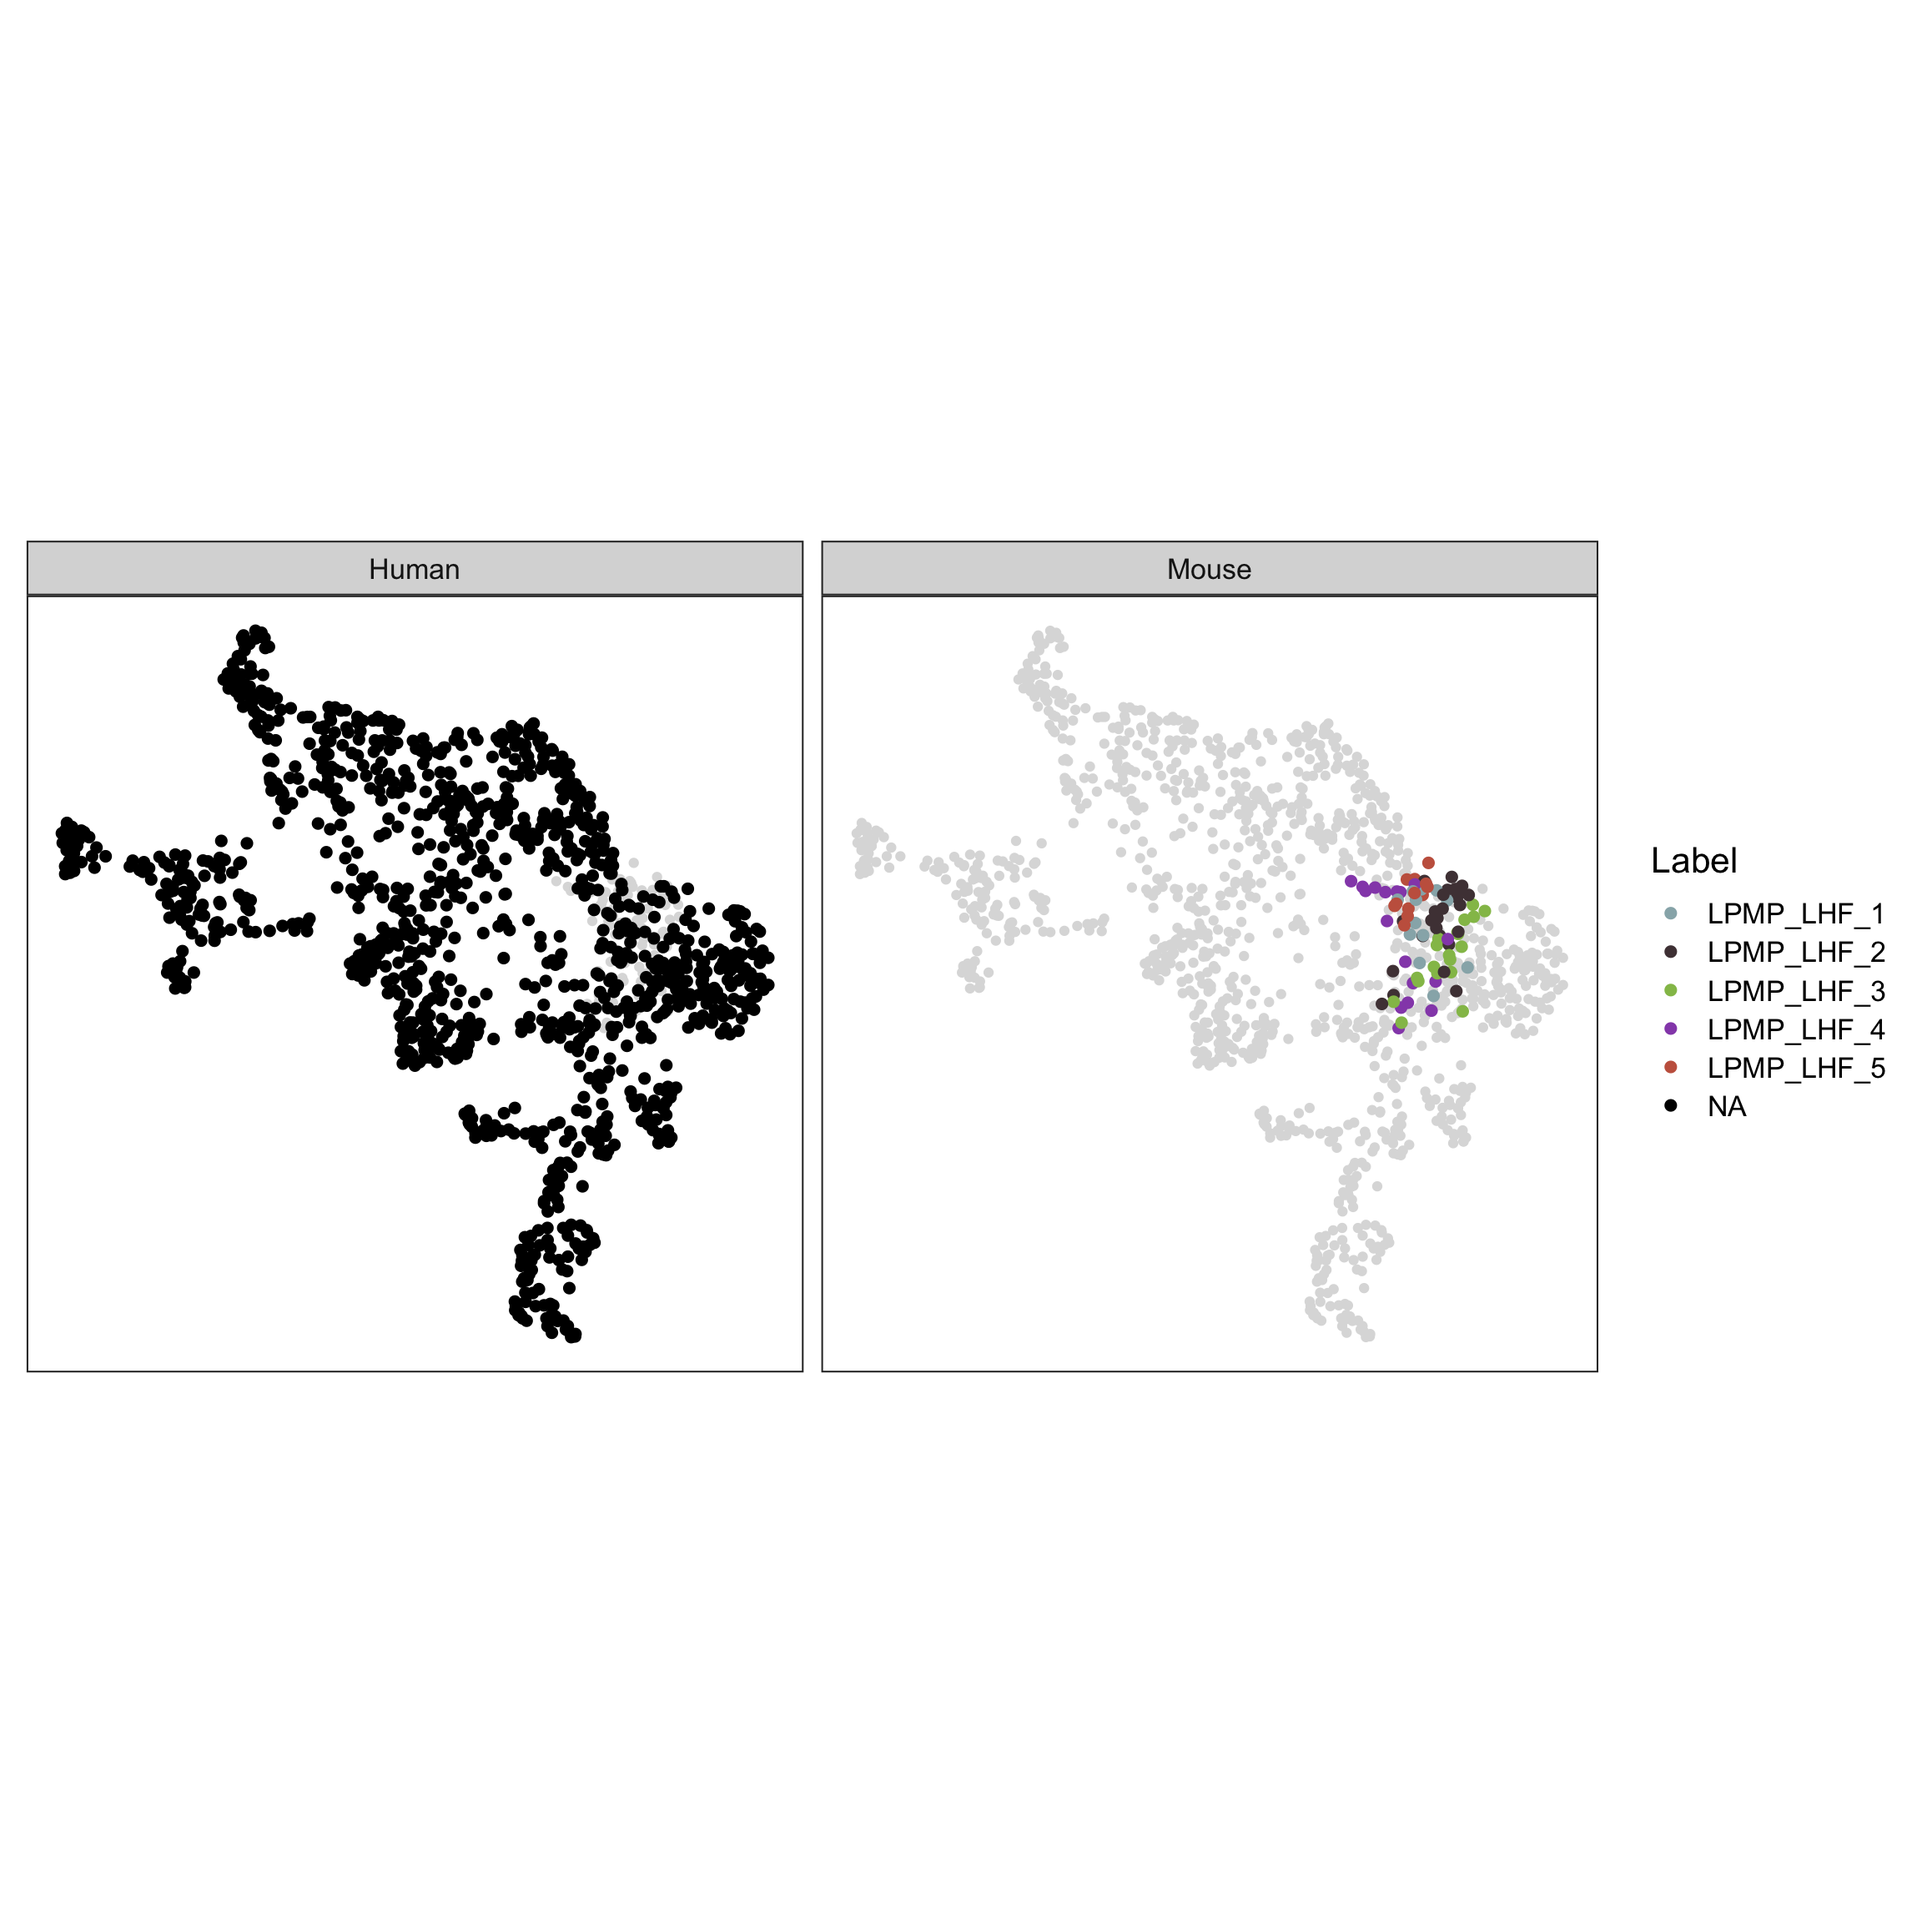
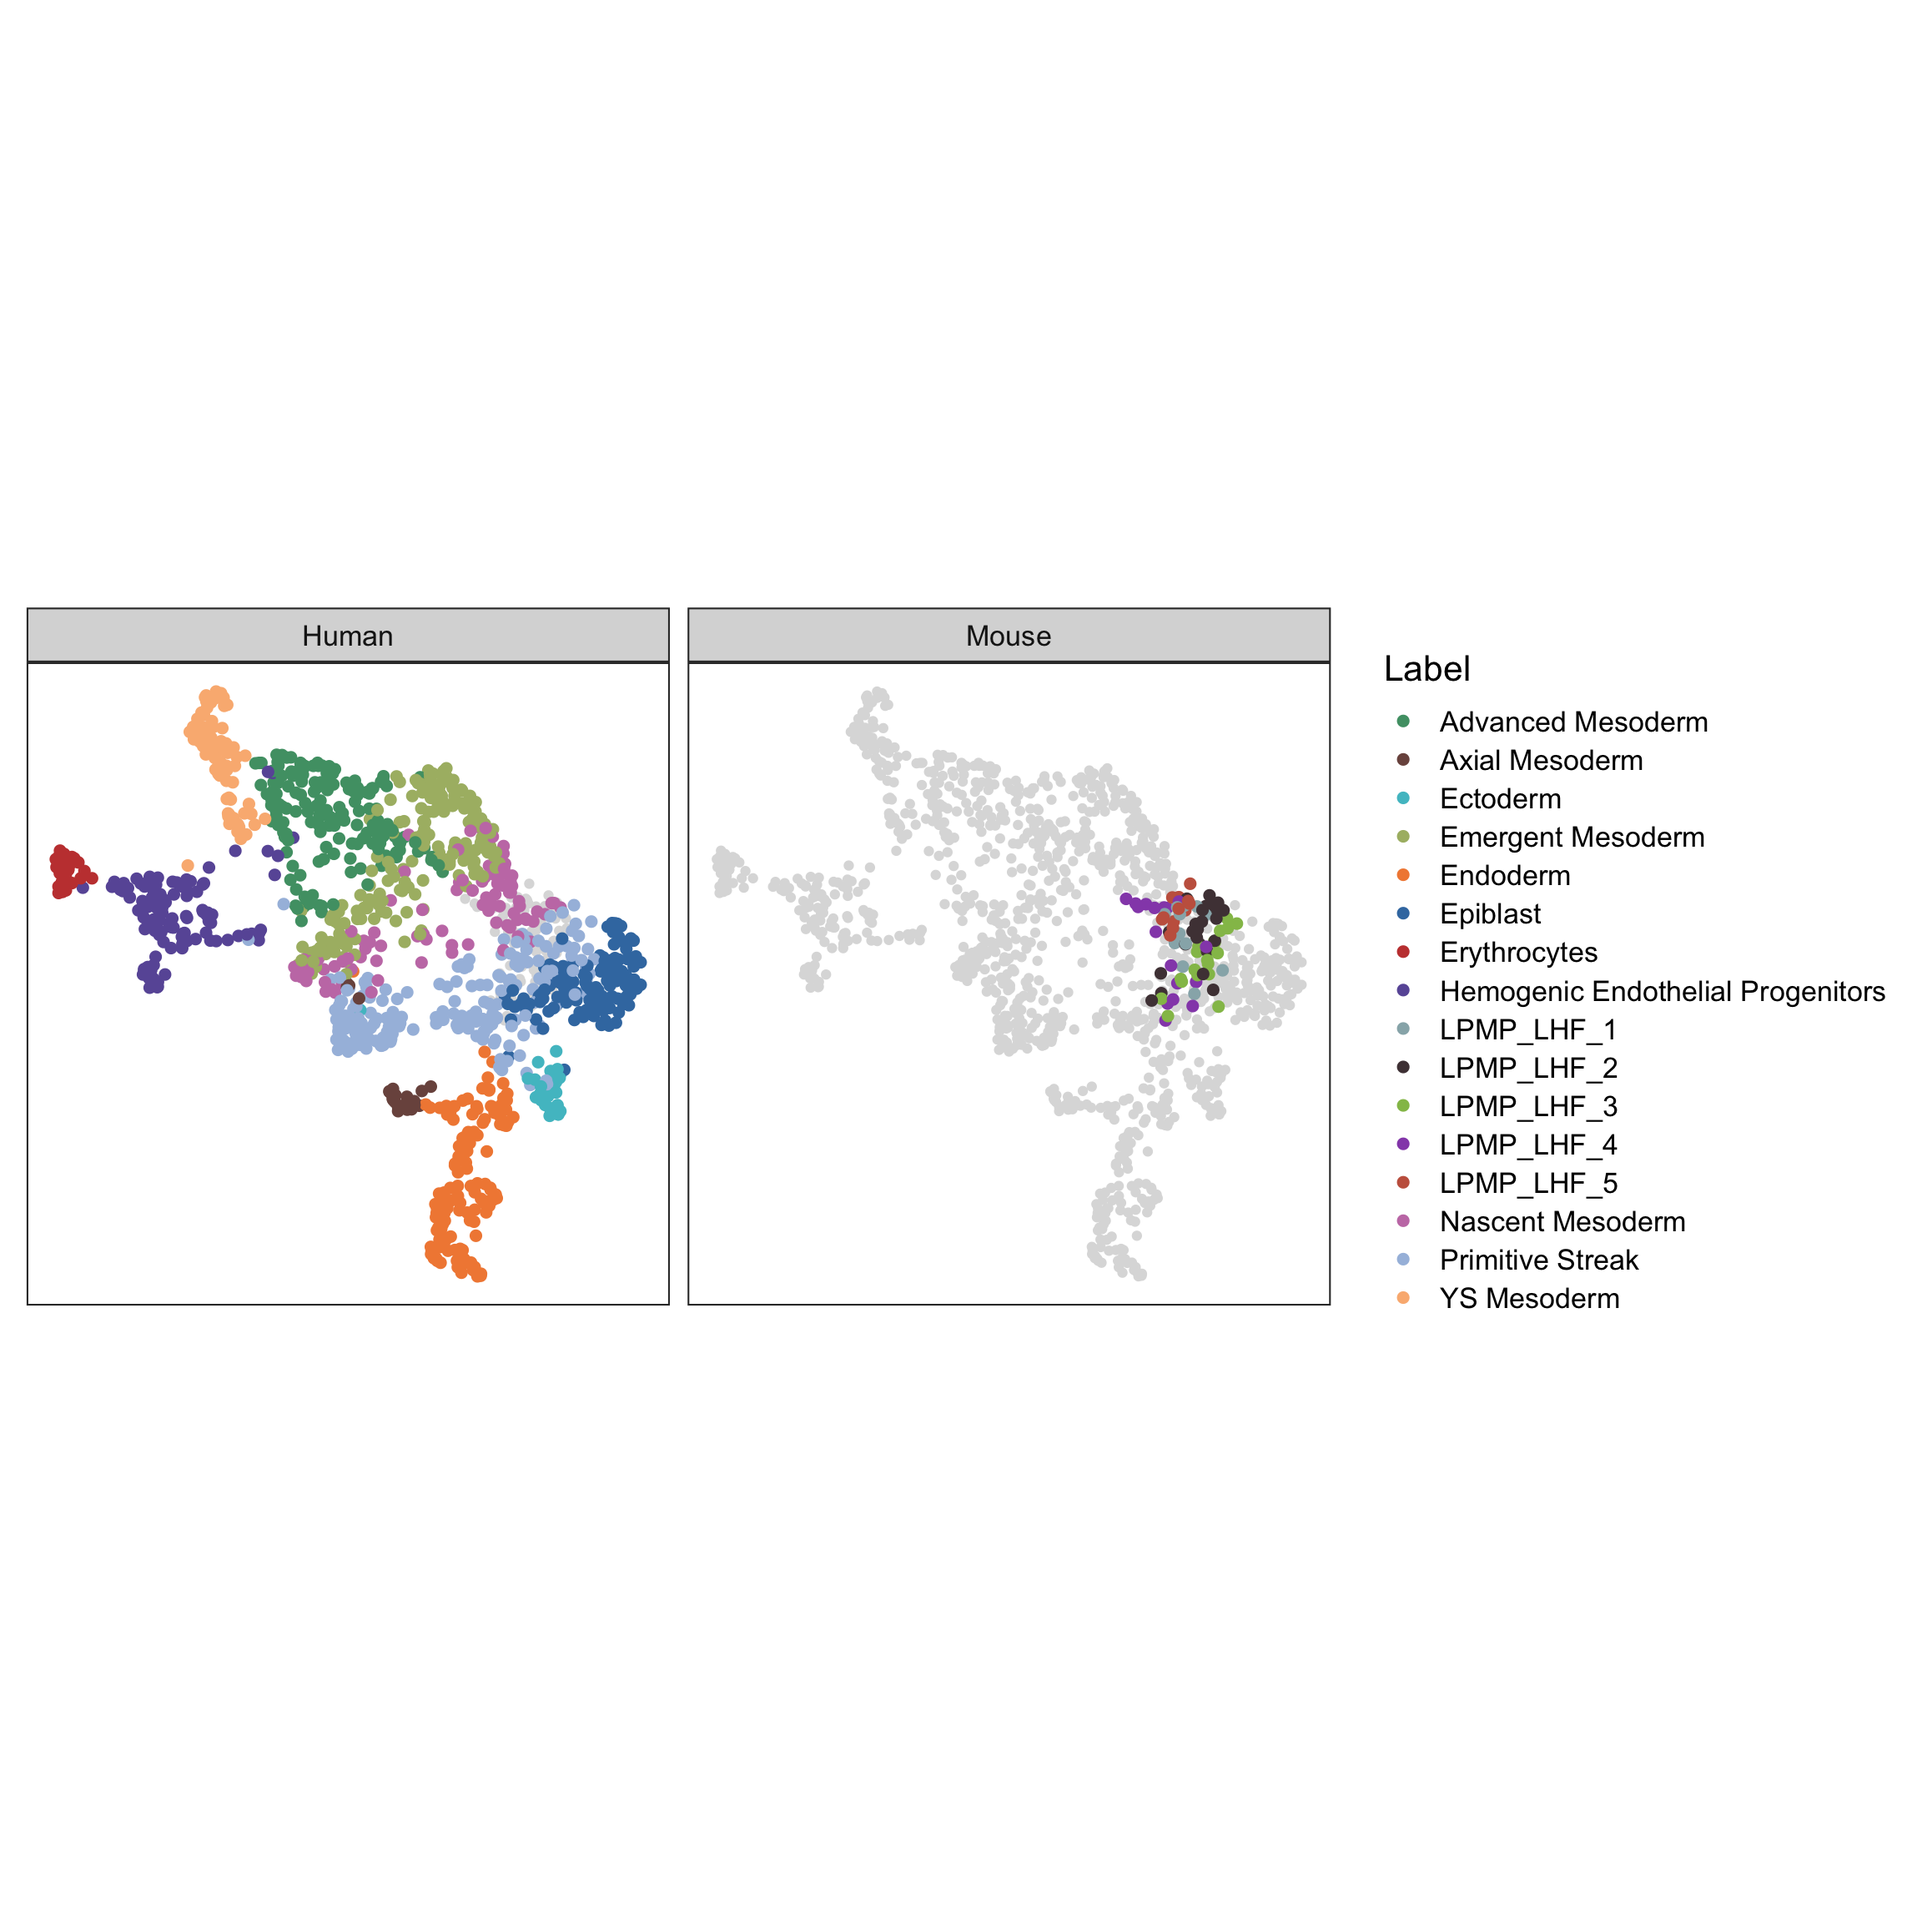
Build

Changed region(s): [[0.0, 0.2812, 0.9688, 0.7188], [0.4062, 0.6562, 0.4375, 0.6875]]

diff --git a/docs/human-integration.html b/docs/human-integration.html
@@ -589,16 +589,16 @@ This reproducible <a href="http://rmarkdown.rstudio.com">R Markdown</a> analysis
 <div class="panel panel-default">
 <div class="panel-heading">
 <p class="panel-title">
-<a data-toggle="collapse" data-parent="#workflowr-checks" href="#strongRepositoryversionstrongahrefhttpsgithubcomjma1991LPMPLHFCtreec10f6f93d7c41c6a9345463b3ca61bc1749b6e90targetblankc10f6f9a"> <span class="glyphicon glyphicon-ok text-success" aria-hidden="true"></span> <strong>Repository version:</strong> <a href="https://github.com/jma1991/LPMP_LHF_C/tree/c10f6f93d7c41c6a9345463b3ca61bc1749b6e90" target="_blank">c10f6f9</a> </a>
+<a data-toggle="collapse" data-parent="#workflowr-checks" href="#strongRepositoryversionstrongahrefhttpsgithubcomjma1991LPMPLHFCtreedb83812334d4d13bd34d8acfbd3ef104854794d6targetblankdb83812a"> <span class="glyphicon glyphicon-ok text-success" aria-hidden="true"></span> <strong>Repository version:</strong> <a href="https://github.com/jma1991/LPMP_LHF_C/tree/db83812334d4d13bd34d8acfbd3ef104854794d6" target="_blank">db83812</a> </a>
 </p>
 </div>
[2 lines of base64/hex data omitted]
 <div class="panel-body">
 <p>
 Great! You are using Git for version control. Tracking code development and connecting the code version to the results is critical for reproducibility.
 </p>
 <p>
-The results in this page were generated with repository version <a href="https://github.com/jma1991/LPMP_LHF_C/tree/c10f6f93d7c41c6a9345463b3ca61bc1749b6e90" target="_blank">c10f6f9</a>. See the <em>Past versions</em> tab to see a history of the changes made to the R Markdown and HTML files.
+The results in this page were generated with repository version <a href="https://github.com/jma1991/LPMP_LHF_C/tree/db83812334d4d13bd34d8acfbd3ef104854794d6" target="_blank">db83812</a>. See the <em>Past versions</em> tab to see a history of the changes made to the R Markdown and HTML files.
 </p>
 <p>
 Note that you need to be careful to ensure that all relevant files for the analysis have been committed to Git prior to generating the results (you can use <code>wflow_publish</code> or <code>wflow_git_commit</code>). workflowr only checks the R Markdown file, but you know if there are other scripts or data files that it depends on. Below is the status of the Git repository when the results were generated:
@@ -660,6 +660,40 @@ Message
 </tr>
 </thead>
 <tbody>
+<tr>
+<td>
+Rmd
+</td>
+<td>
+<a href="https://github.com/jma1991/LPMP_LHF_C/blob/db83812334d4d13bd34d8acfbd3ef104854794d6/analysis/human-integration.Rmd" target="_blank">db83812</a>
+</td>
+<td>
+James Ashmore
+</td>
+<td>
+2021-04-30
+</td>
+<td>
+Build
+</td>
+</tr>
+<tr>
+<td>
+html
+</td>
+<td>
+<a href="https://rawcdn.githack.com/jma1991/LPMP_LHF_C/96255f4ac53d93087d3e002bdcfaf7f4d3d917e7/docs/human-integration.html" target="_blank">96255f4</a>
+</td>
+<td>
+James Ashmore
+</td>
+<td>
+2021-04-30
+</td>
+<td>
+Build
+</td>
+</tr>
 <tr>
 <td>
 Rmd
@@ -791,7 +825,7 @@ library(pheatmap)</code></pre>
   colData(x) &lt;- DataFrame(
     Sample = sample,
     Cluster = x$Cluster,
-    Label = NA,
+    Label = x$Cluster,
     Origin = x$Origin,
     sizeFactor = sizeFactors(x)
   )
@@ -902,6 +936,43 @@ brk &lt;- seq(0, max(var), length.out = 101)
 
 pheatmap(var, color = col, display_numbers = TRUE, number_format = &quot;%.2f&quot;, cluster_cols = FALSE, cluster_rows = FALSE, angle_col = 0)</code></pre>
 <p><img src="figure/human-integration.Rmd/unnamed-chunk-23-1.png" width="100%" style="display: block; margin: auto;" /></p>
+<p>
+<button type="button" class="btn btn-default btn-xs btn-workflowr btn-workflowr-fig" data-toggle="collapse" data-target="#fig-unnamed-chunk-23-1">
+Past versions of unnamed-chunk-23-1.png
+</button>
+</p>
+<div id="fig-unnamed-chunk-23-1" class="collapse">
+<div class="table-responsive">
+<table class="table table-condensed table-hover">
+<thead>
+<tr>
+<th>
+Version
+</th>
+<th>
+Author
+</th>
+<th>
+Date
+</th>
+</tr>
+</thead>
+<tbody>
+<tr>
+<td>
+<a href="https://github.com/jma1991/LPMP_LHF_C/blob/96255f4ac53d93087d3e002bdcfaf7f4d3d917e7/docs/figure/human-integration.Rmd/unnamed-chunk-23-1.png" target="_blank">96255f4</a>
+</td>
+<td>
+James Ashmore
+</td>
+<td>
+2021-04-30
+</td>
+</tr>
+</tbody>
+</table>
+</div>
+</div>
 <p>Cluster on the corrected PCA to obtain a partitioning of the cells:</p>
 <pre class="r"><code>snn &lt;- buildSNNGraph(mnn, type = &quot;jaccard&quot;, use.dimred = &quot;corrected&quot;)
 
@@ -915,6 +986,43 @@ brk &lt;- seq(0, max(tab), length.out = 101)
 
 pheatmap(tab, color = col, display_numbers = TRUE, number_format = &quot;%d&quot;, cluster_cols = FALSE, cluster_rows = FALSE, angle_col = 0)</code></pre>
 <p><img src="figure/human-integration.Rmd/unnamed-chunk-25-1.png" width="100%" style="display: block; margin: auto;" /></p>
+<p>
+<button type="button" class="btn btn-default btn-xs btn-workflowr btn-workflowr-fig" data-toggle="collapse" data-target="#fig-unnamed-chunk-25-1">
+Past versions of unnamed-chunk-25-1.png
+</button>
+</p>
+<div id="fig-unnamed-chunk-25-1" class="collapse">
+<div class="table-responsive">
+<table class="table table-condensed table-hover">
+<thead>
+<tr>
+<th>
+Version
+</th>
+<th>
+Author
+</th>
+<th>
+Date
+</th>
+</tr>
+</thead>
+<tbody>
+<tr>
+<td>
+<a href="https://github.com/jma1991/LPMP_LHF_C/blob/96255f4ac53d93087d3e002bdcfaf7f4d3d917e7/docs/figure/human-integration.Rmd/unnamed-chunk-25-1.png" target="_blank">96255f4</a>
+</td>
+<td>
+James Ashmore
+</td>
+<td>
+2021-04-30
+</td>
+</tr>
+</tbody>
+</table>
+</div>
+</div>
 <p>Perform UMAP on the corrected PCA matrix:</p>
 <pre class="r"><code>set.seed(1100111110)
 
@@ -951,22 +1059,112 @@ ggplot(dat, aes(UMAP.1, UMAP.2, colour = Cluster)) +
   theme_no_axes(base.theme = theme_bw(base_size = 16)) + 
   theme(aspect.ratio = 1)</code></pre>
 <p><img src="figure/human-integration.Rmd/unnamed-chunk-27-1.png" width="100%" style="display: block; margin: auto;" /></p>
+<p>
+<button type="button" class="btn btn-default btn-xs btn-workflowr btn-workflowr-fig" data-toggle="collapse" data-target="#fig-unnamed-chunk-27-1">
+Past versions of unnamed-chunk-27-1.png
+</button>
+</p>
+<div id="fig-unnamed-chunk-27-1" class="collapse">
+<div class="table-responsive">
+<table class="table table-condensed table-hover">
+<thead>
+<tr>
+<th>
+Version
+</th>
+<th>
+Author
+</th>
+<th>
+Date
+</th>
+</tr>
+</thead>
+<tbody>
+<tr>
+<td>
+<a href="https://github.com/jma1991/LPMP_LHF_C/blob/96255f4ac53d93087d3e002bdcfaf7f4d3d917e7/docs/figure/human-integration.Rmd/unnamed-chunk-27-1.png" target="_blank">96255f4</a>
+</td>
+<td>
+James Ashmore
+</td>
+<td>
+2021-04-30
+</td>
+</tr>
+</tbody>
+</table>
+</div>
+</div>
 <p>Plot UMAP coloured by label annotation:</p>
 <pre class="r"><code>dat &lt;- makePerCellDF(mnn, use.coldata = TRUE, use.dimred = &quot;UMAP&quot;)
+
+HumanLabelColours &lt;- c(
+  &quot;Epiblast&quot; = &quot;#3D7AB0&quot;,
+  &quot;Ectoderm&quot; = &quot;#4FC0CB&quot;,
+  &quot;Primitive Streak&quot; = &quot;#A6BEDF&quot;,
+  &quot;Nascent Mesoderm&quot; = &quot;#C67DB4&quot;,
+  &quot;Axial Mesoderm&quot; = &quot;#7B534D&quot;,
+  &quot;Emergent Mesoderm&quot; = &quot;#ABB973&quot;,
+  &quot;Endoderm&quot; = &quot;#F28941&quot;,
+  &quot;Advanced Mesoderm&quot; = &quot;#4F9E74&quot;,
+  &quot;YS Mesoderm&quot; = &quot;#FAB781&quot;,
+  &quot;Hemogenic Endothelial Progenitors&quot; = &quot;#6A59A6&quot;,
+  &quot;Erythrocytes&quot; = &quot;#C5433E&quot;
+)
 
 MouseLabelColours &lt;- iwanthue(length(unique(sce$Label)))
 
 names(MouseLabelColours) &lt;- unique(sce$Label)  
 
+LabelColours &lt;- c(HumanLabelColours, MouseLabelColours)
+
 ggplot(dat, aes(UMAP.1, UMAP.2, colour = Label)) + 
   geom_point(data = dat[, c(&quot;UMAP.1&quot;, &quot;UMAP.2&quot;)], colour = &quot;gainsboro&quot;) + 
   geom_point(size = 2) + 
-  scale_colour_manual(values = MouseLabelColours, na.value = &quot;#000000&quot;) + 
+  scale_colour_manual(values = LabelColours, na.value = &quot;#000000&quot;) + 
   labs(x = &quot;UMAP 1&quot;, y = &quot;UMAP 2&quot;) + 
   facet_wrap(~ batch) + 
   theme_no_axes(base.theme = theme_bw(base_size = 16)) + 
   theme(aspect.ratio = 1)</code></pre>
 <p><img src="figure/human-integration.Rmd/unnamed-chunk-28-1.png" width="100%" style="display: block; margin: auto;" /></p>
+<p>
+<button type="button" class="btn btn-default btn-xs btn-workflowr btn-workflowr-fig" data-toggle="collapse" data-target="#fig-unnamed-chunk-28-1">
+Past versions of unnamed-chunk-28-1.png
+</button>
+</p>
+<div id="fig-unnamed-chunk-28-1" class="collapse">
+<div class="table-responsive">
+<table class="table table-condensed table-hover">
+<thead>
+<tr>
+<th>
+Version
+</th>
+<th>
+Author
+</th>
+<th>
+Date
+</th>
+</tr>
+</thead>
+<tbody>
+<tr>
+<td>
+<a href="https://github.com/jma1991/LPMP_LHF_C/blob/96255f4ac53d93087d3e002bdcfaf7f4d3d917e7/docs/figure/human-integration.Rmd/unnamed-chunk-28-1.png" target="_blank">96255f4</a>
+</td>
+<td>
+James Ashmore
+</td>
+<td>
+2021-04-30
+</td>
+</tr>
+</tbody>
+</table>
+</div>
+</div>
 </div>
 <div id="summary" class="section level2">
 <h2>Summary</h2>

diff --git a/docs/index.html b/docs/index.html
@@ -450,16 +450,16 @@ This reproducible <a href="http://rmarkdown.rstudio.com">R Markdown</a> analysis
 <div class="panel panel-default">
 <div class="panel-heading">
 <p class="panel-title">
-<a data-toggle="collapse" data-parent="#workflowr-checks" href="#strongRepositoryversionstrongahrefhttpsgithubcomjma1991LPMPLHFCtreec10f6f93d7c41c6a9345463b3ca61bc1749b6e90targetblankc10f6f9a"> <span class="glyphicon glyphicon-ok text-success" aria-hidden="true"></span> <strong>Repository version:</strong> <a href="https://github.com/jma1991/LPMP_LHF_C/tree/c10f6f93d7c41c6a9345463b3ca61bc1749b6e90" target="_blank">c10f6f9</a> </a>
+<a data-toggle="collapse" data-parent="#workflowr-checks" href="#strongRepositoryversionstrongahrefhttpsgithubcomjma1991LPMPLHFCtreedb83812334d4d13bd34d8acfbd3ef104854794d6targetblankdb83812a"> <span class="glyphicon glyphicon-ok text-success" aria-hidden="true"></span> <strong>Repository version:</strong> <a href="https://github.com/jma1991/LPMP_LHF_C/tree/db83812334d4d13bd34d8acfbd3ef104854794d6" target="_blank">db83812</a> </a>
 </p>
 </div>
[2 lines of base64/hex data omitted]
 <div class="panel-body">
 <p>
 Great! You are using Git for version control. Tracking code development and connecting the code version to the results is critical for reproducibility.
 </p>
 <p>
-The results in this page were generated with repository version <a href="https://github.com/jma1991/LPMP_LHF_C/tree/c10f6f93d7c41c6a9345463b3ca61bc1749b6e90" target="_blank">c10f6f9</a>. See the <em>Past versions</em> tab to see a history of the changes made to the R Markdown and HTML files.
+The results in this page were generated with repository version <a href="https://github.com/jma1991/LPMP_LHF_C/tree/db83812334d4d13bd34d8acfbd3ef104854794d6" target="_blank">db83812</a>. See the <em>Past versions</em> tab to see a history of the changes made to the R Markdown and HTML files.
 </p>
 <p>
 Note that you need to be careful to ensure that all relevant files for the analysis have been committed to Git prior to generating the results (you can use <code>wflow_publish</code> or <code>wflow_git_commit</code>). workflowr only checks the R Markdown file, but you know if there are other scripts or data files that it depends on. Below is the status of the Git repository when the results were generated:
@@ -521,6 +521,23 @@ Message
 </tr>
 </thead>
 <tbody>
+<tr>
+<td>
+html
+</td>
+<td>
+<a href="https://rawcdn.githack.com/jma1991/LPMP_LHF_C/96255f4ac53d93087d3e002bdcfaf7f4d3d917e7/docs/index.html" target="_blank">96255f4</a>
+</td>
+<td>
+James Ashmore
+</td>
+<td>
+2021-04-30
+</td>
+<td>
+Build
+</td>
+</tr>
 <tr>
 <td>
 html
